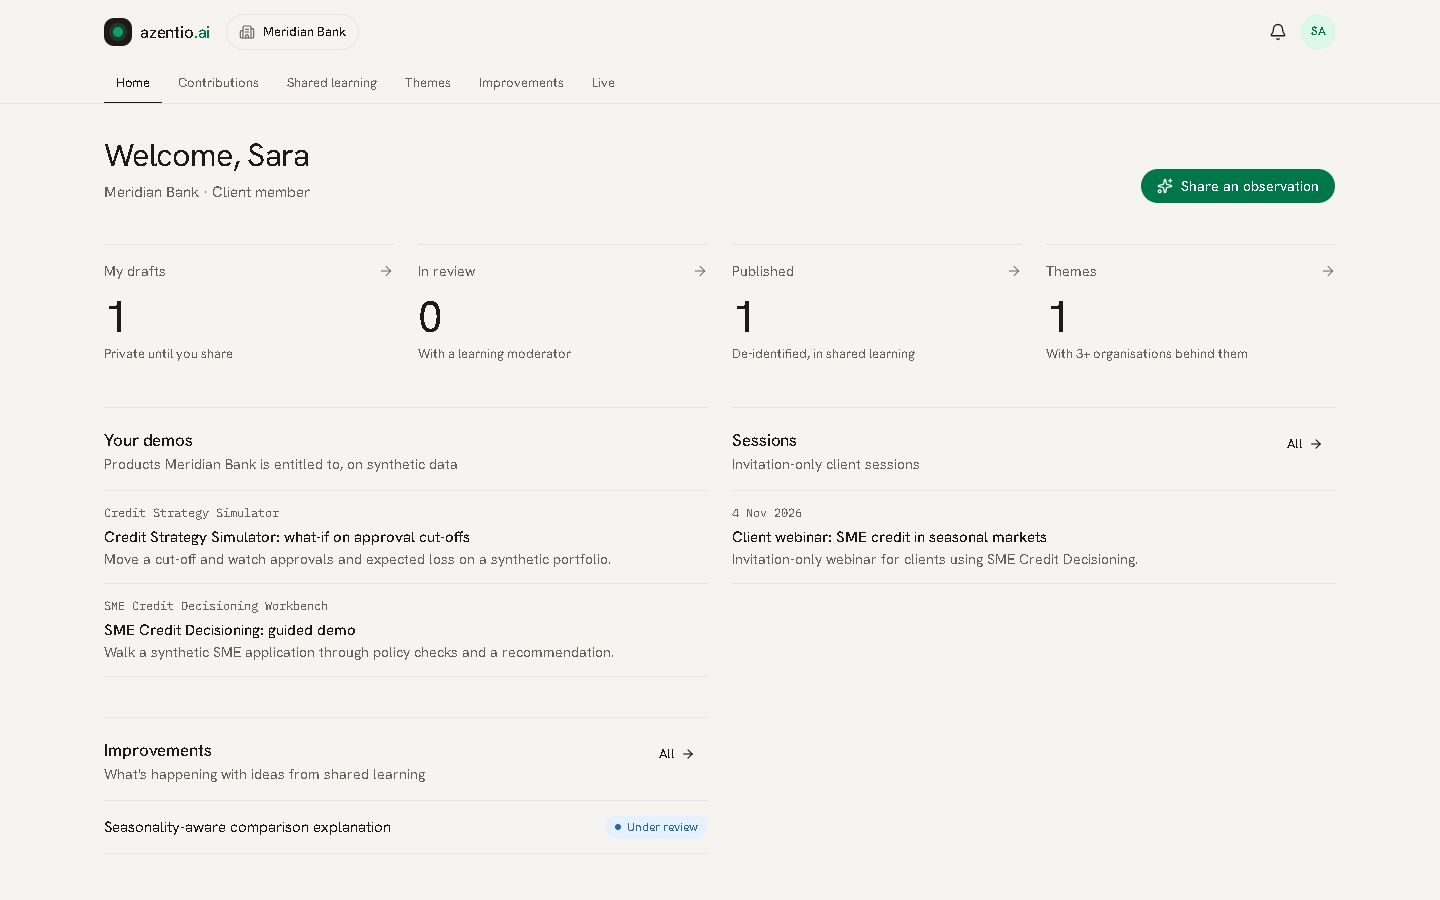
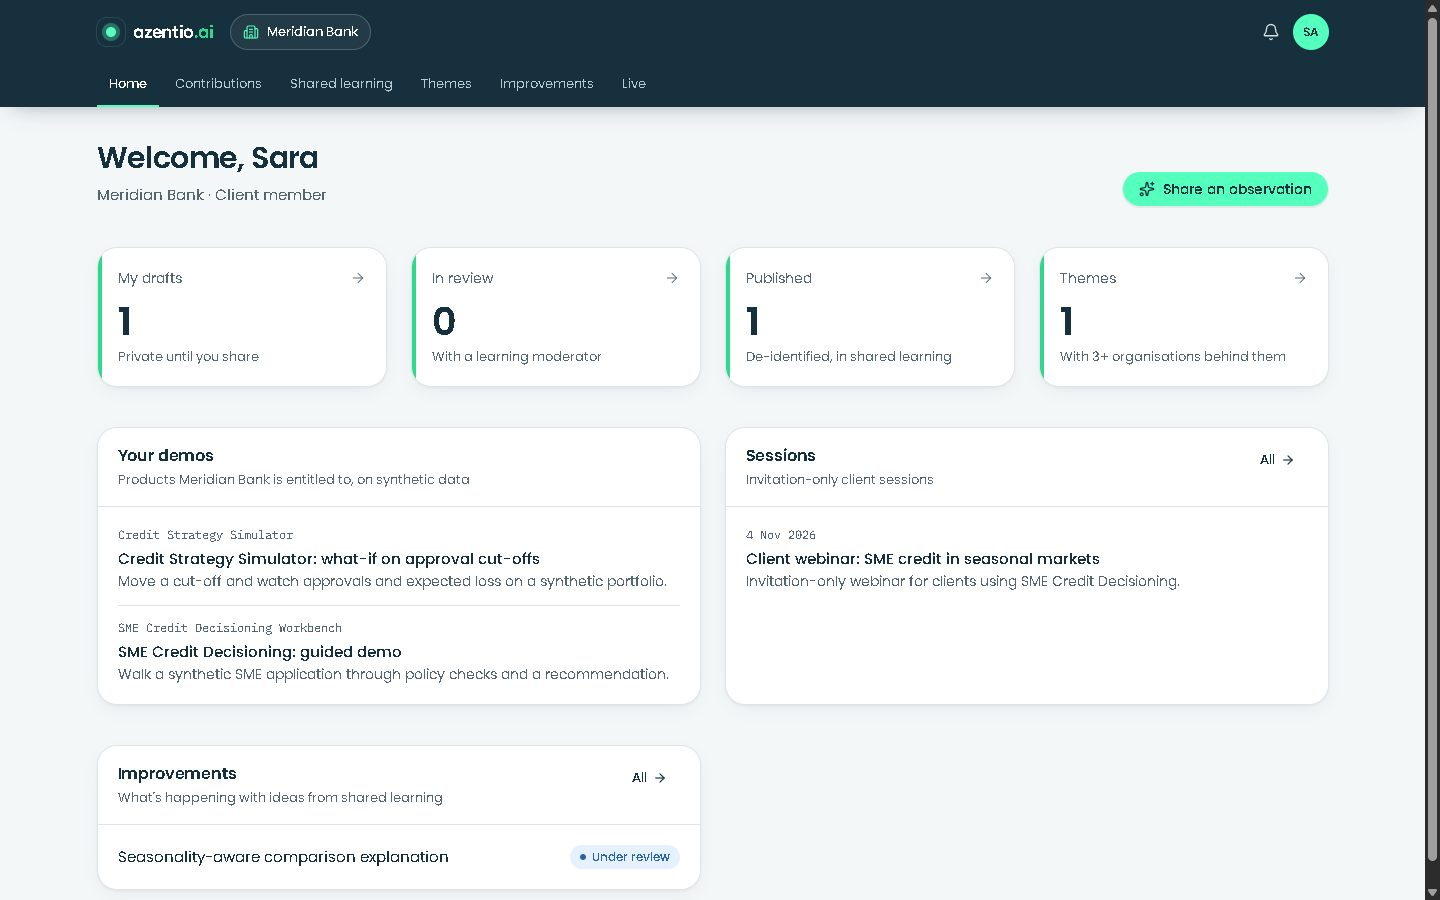
docs: brand-coloured badges and screenshots of the rebranded UI
The README's badges used the pre-rebrand green and its screenshots showed
the old theme. Badges now use Azentio navy and green, the tech stack lists
the single theme file, and all five screenshots are recaptured at 1440px
from the seeded demo data.

diff --git a/README.md b/README.md
@@ -7,12 +7,12 @@
 **An enterprise AI website and a secure collaboration portal, where clients' market observations become governed,
 shared learning that improves Azentio's products.**
 
-[![Live demo](https://img.shields.io/badge/live_demo-azentio--platform.vercel.app-0f9d63?style=flat-square)](https://azentio-platform.vercel.app)
+[![Live demo](https://img.shields.io/badge/live_demo-azentio--platform.vercel.app-16303d?style=flat-square)](https://azentio-platform.vercel.app)
 [![Next.js 16](https://img.shields.io/badge/Next.js-16-000000?style=flat-square&logo=nextdotjs)](https://nextjs.org)
 [![React 19](https://img.shields.io/badge/React-19-149eca?style=flat-square&logo=react&logoColor=white)](https://react.dev)
 [![TypeScript strict](https://img.shields.io/badge/TypeScript-strict-3178c6?style=flat-square&logo=typescript&logoColor=white)](tsconfig.json)
 [![Postgres](https://img.shields.io/badge/Postgres-Supabase_·_PGlite-336791?style=flat-square&logo=postgresql&logoColor=white)](docs/adr/0002-postgres-everywhere-with-rls-lockdown.md)
-[![API security tests](https://img.shields.io/badge/API_security_tests-16-0f9d63?style=flat-square)](tests/security.test.mjs)
+[![API security tests](https://img.shields.io/badge/API_security_tests-16_passing-2ed88e?style=flat-square)](tests/security.test.mjs)
 
 [**Live demo**](https://azentio-platform.vercel.app) · [Security model](SECURITY.md) ·
 [Requirements traceability](docs/requirements-traceability.md) · [Architecture](docs/architecture.md) ·
@@ -183,6 +183,7 @@ docs/                architecture, demo script, decision records, requirements t
 |---|---|
 | Application | Next.js 16 (App Router, Server Components, Route Handlers), React 19, TypeScript (strict) |
 | UI | Tailwind CSS 4, shadcn/ui on Base UI, lucide icons |
+| Design | Azentio's brand (navy, mint, Poppins) from one token file, [`src/app/theme.css`](src/app/theme.css); one contrast-checked light theme |
 | Data | Postgres: Supabase in production, PGlite (embedded Postgres) locally |
 | AI | Anthropic Claude via the API in production, Claude Code CLI locally; zod-validated structured output |
 | Hosting | Vercel |
